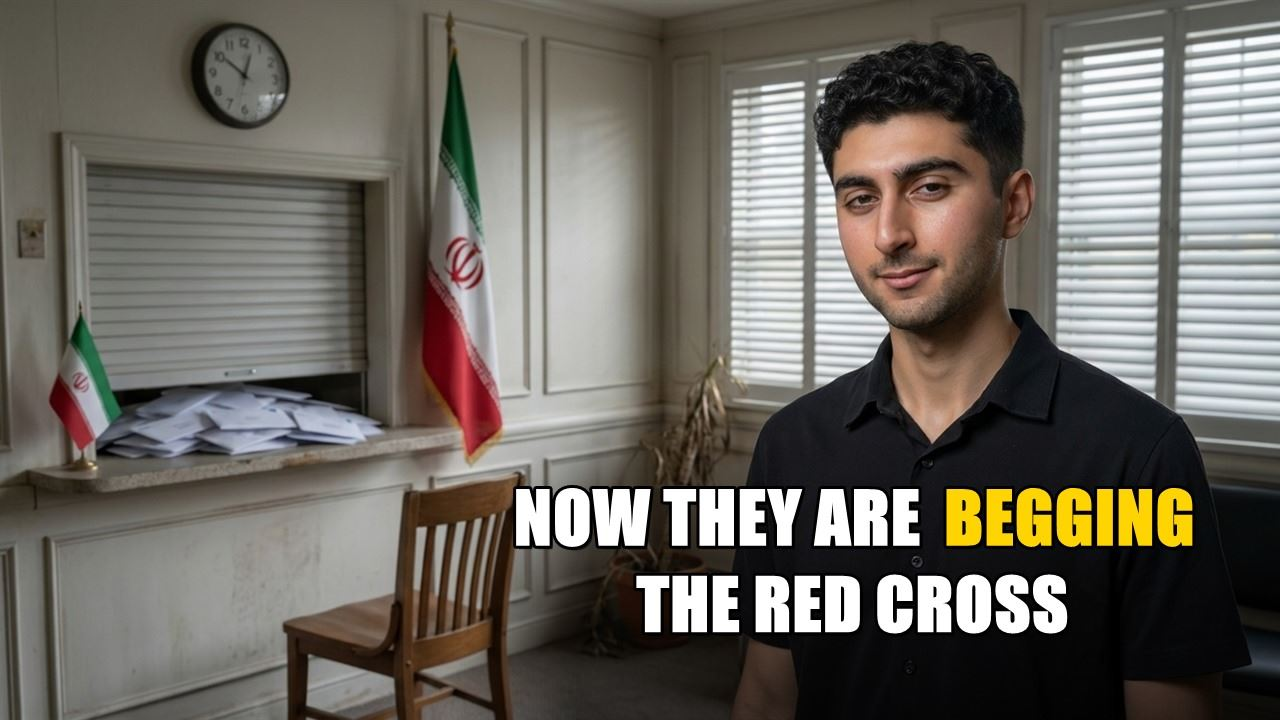
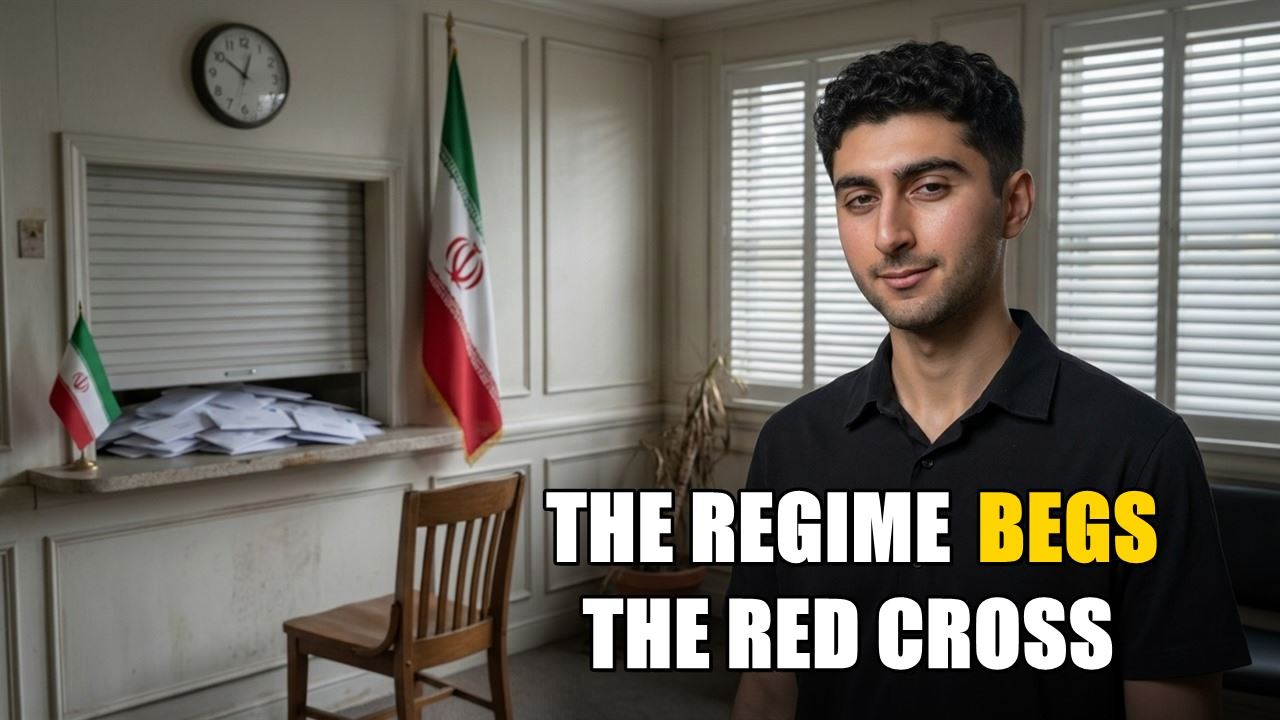
dashboards 2026-08-17T02:19:24Z

Changed region(s): [[0.375, 0.6722, 0.9375, 0.9472]]

diff --git a/ali-costreams.html b/ali-costreams.html
@@ -235,17 +235,17 @@ dialog img{display:block;max-width:94vw;max-height:88vh}
 <div class="wrap">
 <header>
   <h1>Ali co-streams - clip review</h1>
-  <div class="sub">19 streams - 161 clips</div>
+  <div class="sub">19 streams - 163 clips</div>
 </header>
 
 <!-- Self-checking freshness banner: the page compares its own build time against the clock. -->
-<div id="freshbar" class="fresh" data-built="2026-08-17T01:53:59Z">
+<div id="freshbar" class="fresh" data-built="2026-08-17T02:17:38Z">
   <div class="fresh-l">
-    <b id="freshtitle">This page was updated Mon Aug 17, 09:53</b>
+    <b id="freshtitle">This page was updated Mon Aug 17, 10:17</b>
     <span id="freshage"></span>
   </div>
-  <span class="newtoday" id="newtoday" data-new="9"
-        title="Clips whose covers finished in the last 24 hours">New today: 9</span>
+  <span class="newtoday" id="newtoday" data-new="11"
+        title="Clips whose covers finished in the last 24 hours">New today: 11</span>
   <button type="button" id="freshreload" class="fresh-btn" hidden>Get the newest version</button>
 </div>
 
@@ -292,9 +292,67 @@ dialog img{display:block;max-width:94vw;max-height:88vh}
   <p><b>A clip you have not answered is not the same as a clip you approved.</b> Anything you leave blank is reported as <b>not answered</b>, so nothing gets published on the assumption that your silence meant yes.</p>
   <p>Each stream below has its own coloured dot, and the feedback button under it carries the same dot, so you can always tell which stream a button belongs to.</p>
 </div>
-<div class="streamhdr"><h2>&#128308; Ali &amp; Armin - August 16</h2><span class="new">Newest</span><span class="cnt">1 clips</span></div>
+<div class="streamhdr"><h2>&#128308; Ali &amp; Armin - August 16</h2><span class="new">Newest</span><span class="cnt">3 clips</span></div>
+<section class="clip" data-seg="2026-08-16-ali::4" data-stream="Ali &amp; Armin - August 16">
+  <div class="chead"><span class="num">Seg 4</span><span class="ctitle">Iran&#39;s Stranded Tanker Fleet</span><a class="watch" href="https://share.descript.com/view/6ae9eZGrsmb" target="_blank" rel="noopener">Watch</a></div>
+  <div class="viddec">
+    <div class="dec">
+      <div class="decq">&#127909; Are you using this video?</div>
+      <div class="decbtns">
+        <button class="db viddb" type="button" data-d="yes" aria-pressed="false">Using this video</button>
+        <button class="db viddb" type="button" data-d="no" aria-pressed="false">Not using it</button>
+        <span class="saved" aria-live="polite"></span>
+      </div>
+    </div>
+    <div class="decbtns"><button class="allbtn" type="button">&#9989; Use everything on this clip</button></div>
+    <div class="vidwhy" hidden><textarea class="vidtext" rows="2" placeholder="Why are you not using this video? e.g. it starts in the middle of a sentence; it repeats the same point twice; the ending is cut off"></textarea></div>
+    <div class="means none" aria-live="polite">Not answered yet.</div>
+  </div>
+  <div class="cliptime">Added Aug 16 &middot; Covers made Aug 16 &middot; Ready Aug 16 &middot; <b>1:02</b> <span class="nomid">no mid-roll</span></div>
+  <div class="covers">
+    <div class="cov" data-var="C" data-head="THESE SHIPS WILL WARN US FIRST" data-title="THESE SHIPS WILL WARN US FIRST">
+      <button class="zoombtn" type="button" aria-label="Enlarge cover C"><img src="img/2026-08-16-ali-S4-C.jpg" alt="Cover C: THESE SHIPS WILL WARN US FIRST" loading="lazy"><span class="zoomhint">Tap to enlarge</span></button>
+      <div class="covdec">
+        <div class="decq">&#128444;&#65039; This cover C</div>
+        <div class="decbtns">
+          <button class="db covdb" type="button" data-d="yes" aria-pressed="false">Using it</button>
+          <button class="db covdb" type="button" data-d="no" aria-pressed="false">Not using it</button>
+        </div>
+      </div>
+      <div class="ttlline"><b>C</b> - THESE SHIPS WILL WARN US FIRST</div>
+      <div class="covdec">
+        <div class="decq">&#9999;&#65039; This title C</div>
+        <div class="decbtns">
+          <button class="db ttldb" type="button" data-d="yes" aria-pressed="false">Using it</button>
+          <button class="db ttldb" type="button" data-d="no" aria-pressed="false">Not using it</button>
+        </div>
+      </div>
+      <div class="ttlwhy" hidden><textarea class="ttltext" rows="2" placeholder="Why not this title? A few words is enough. e.g. it says secret and nobody said secret; it is about the last 20 seconds, not the video"></textarea></div>
+      <div class="covacts">
+        <button class="minibtn" type="button" data-copy="title">Copy title</button>
+        <a class="minibtn dlbtn" download="THESE SHIPS WILL WARN US FIRST - C.jpg" href="#" title="THESE SHIPS WILL WARN US FIRST - C.jpg">Save this cover</a>
+      </div>
+      <div class="covwhy" hidden><textarea class="whytext" rows="2" placeholder="Why not this cover? A few words is enough. e.g. that is not Armin, text covers his face, the hosts are too small"></textarea></div>
+    </div>
+  </div>
+  <div class="descbox">
+    <div class="lbl">Description</div>
+    <p class="desctext">There are now eighteen IRGC oil tankers sitting at anchor off Sri Lanka, four more than the last count, riding low and going nowhere. Ali explains why that line of ships is worth watching more closely than any statement out of a podium: if the tankers start moving back toward the Strait of Hormuz, it means somebody has given the Islamic Republic safety or a deal. If they stay where they are, it means the people who own them expect a war. Armin and Ali use the anchorage as a live indicator of what is coming in the next week or two.
+
+Live every day: https://www.youtube.com/@LibertyPoliticsChannel/streams
+
+Join the Liberty Politics Discussion Group: https://www.skool.com/liberty-politics
+
+Talk to Ali in his group calls: https://www.skool.com/libertypolitics/about?ref=f076eb0a543d44c9a50eddfb14fdd1ae</p>
+    <button class="copyttl" type="button" data-copy="desc">Copy description</button>
+  </div>
+  <div class="fbnote">
+    <div class="lbl">Anything else about this video? (optional)</div>
+    <textarea placeholder="About the VIDEO, not the covers. Even if you are using it - does it start badly? End badly? Anything confusing or repeated?"></textarea>
+  </div>
+</section>
 <section class="clip" data-seg="2026-08-16-ali::13" data-stream="Ali &amp; Armin - August 16">
-  <div class="chead"><span class="num">Seg 13</span><span class="ctitle">Qatar Detained Iran&#39;s Pilots and Kept It Secret</span><a class="watch" href="https://share.descript.com/view/u2k630LroFa" target="_blank" rel="noopener">Watch</a></div>
+  <div class="chead"><span class="num">Seg 13</span><span class="ctitle">Qatar Held the Islamic Republic&#39;s Pilots Since March and Nobody Knew</span><a class="watch" href="https://share.descript.com/view/u2k630LroFa" target="_blank" rel="noopener">Watch</a></div>
   <div class="viddec">
     <div class="dec">
       <div class="decq">&#127909; Are you using this video?</div>
@@ -310,8 +368,8 @@ dialog img{display:block;max-width:94vw;max-height:88vh}
   </div>
   <div class="cliptime">Added Aug 16 &middot; Covers made Aug 16 &middot; Ready Aug 16 &middot; <b>1:20</b> <span class="nomid">no mid-roll</span></div>
   <div class="covers">
-    <div class="cov" data-var="C" data-head="NOW THEY ARE BEGGING THE RED CROSS" data-title="NOW THEY ARE BEGGING THE RED CROSS">
-      <button class="zoombtn" type="button" aria-label="Enlarge cover C"><img src="img/2026-08-16-ali-S13-C.jpg" alt="Cover C: NOW THEY ARE BEGGING THE RED CROSS" loading="lazy"><span class="zoomhint">Tap to enlarge</span></button>
+    <div class="cov" data-var="C" data-head="THE REGIME BEGS THE RED CROSS" data-title="THE REGIME BEGS THE RED CROSS">
+      <button class="zoombtn" type="button" aria-label="Enlarge cover C"><img src="img/2026-08-16-ali-S13-C.jpg" alt="Cover C: THE REGIME BEGS THE RED CROSS" loading="lazy"><span class="zoomhint">Tap to enlarge</span></button>
       <div class="covdec">
         <div class="decq">&#128444;&#65039; This cover C</div>
         <div class="decbtns">
@@ -319,7 +377,7 @@ dialog img{display:block;max-width:94vw;max-height:88vh}
           <button class="db covdb" type="button" data-d="no" aria-pressed="false">Not using it</button>
         </div>
       </div>
-      <div class="ttlline"><b>C</b> - NOW THEY ARE BEGGING THE RED CROSS</div>
+      <div class="ttlline"><b>C</b> - THE REGIME BEGS THE RED CROSS</div>
       <div class="covdec">
         <div class="decq">&#9999;&#65039; This title C</div>
         <div class="decbtns">
@@ -330,12 +388,70 @@ dialog img{display:block;max-width:94vw;max-height:88vh}
       <div class="ttlwhy" hidden><textarea class="ttltext" rows="2" placeholder="Why not this title? A few words is enough. e.g. it says secret and nobody said secret; it is about the last 20 seconds, not the video"></textarea></div>
       <div class="covacts">
         <button class="minibtn" type="button" data-copy="title">Copy title</button>
-        <a class="minibtn dlbtn" download="NOW THEY ARE BEGGING THE RED CROSS - C.jpg" href="#" title="NOW THEY ARE BEGGING THE RED CROSS - C.jpg">Save this cover</a>
+        <a class="minibtn dlbtn" download="THE REGIME BEGS THE RED CROSS - C.jpg" href="#" title="THE REGIME BEGS THE RED CROSS - C.jpg">Save this cover</a>
       </div>
       <div class="covwhy" hidden><textarea class="whytext" rows="2" placeholder="Why not this cover? A few words is enough. e.g. that is not Armin, text covers his face, the hosts are too small"></textarea></div>
     </div>
-    <div class="cov" data-var="B" data-head="TEHRAN DIDN&#39;T KNOW THEY WERE ALIVE" data-title="TEHRAN DIDN&#39;T KNOW THEY WERE ALIVE">
-      <button class="zoombtn" type="button" aria-label="Enlarge cover B"><img src="img/2026-08-16-ali-S13-B.jpg" alt="Cover B: TEHRAN DIDN&#39;T KNOW THEY WERE ALIVE" loading="lazy"><span class="zoomhint">Tap to enlarge</span></button>
+  </div>
+  <div class="descbox">
+    <div class="lbl">Description</div>
+    <p class="desctext">During the fighting in March, Qatar shot down several IRGC pilots, captured them badly injured, and treated them. Then it held them for months and told nobody. The Islamic Republic did not know its own men were alive. When it finally found out and asked for them back, Qatar said no, and the answer from the Islamic Republic was to complain to the Red Cross about a country holding men it had not known were being held. Armin and Ali go through what that says about the regime&#39;s intelligence, and about how little its neighbours now fear it.
+
+Live every day: https://www.youtube.com/@LibertyPoliticsChannel/streams
+
+Join the Liberty Politics Discussion Group: https://www.skool.com/liberty-politics
+
+Talk to Ali in his group calls: https://www.skool.com/libertypolitics/about?ref=f076eb0a543d44c9a50eddfb14fdd1ae</p>
+    <button class="copyttl" type="button" data-copy="desc">Copy description</button>
+  </div>
+  <div class="fbnote">
+    <div class="lbl">Anything else about this video? (optional)</div>
+    <textarea placeholder="About the VIDEO, not the covers. Even if you are using it - does it start badly? End badly? Anything confusing or repeated?"></textarea>
+  </div>
+</section>
+<section class="clip" data-seg="2026-08-16-ali::18" data-stream="Ali &amp; Armin - August 16">
+  <div class="chead"><span class="num">Seg 18</span><span class="ctitle">Mossad&#39;s Psychological Warfare on Nuclear Scientists</span><a class="watch" href="https://share.descript.com/view/IKplK8q35Da" target="_blank" rel="noopener">Watch</a></div>
+  <div class="viddec">
+    <div class="dec">
+      <div class="decq">&#127909; Are you using this video?</div>
+      <div class="decbtns">
+        <button class="db viddb" type="button" data-d="yes" aria-pressed="false">Using this video</button>
+        <button class="db viddb" type="button" data-d="no" aria-pressed="false">Not using it</button>
+        <span class="saved" aria-live="polite"></span>
+      </div>
+    </div>
+    <div class="decbtns"><button class="allbtn" type="button">&#9989; Use everything on this clip</button></div>
+    <div class="vidwhy" hidden><textarea class="vidtext" rows="2" placeholder="Why are you not using this video? e.g. it starts in the middle of a sentence; it repeats the same point twice; the ending is cut off"></textarea></div>
+    <div class="means none" aria-live="polite">Not answered yet.</div>
+  </div>
+  <div class="cliptime">Added Aug 16 &middot; Covers made Aug 16 &middot; Ready Aug 16 &middot; <b>0:55</b> <span class="nomid">no mid-roll</span></div>
+  <div class="covers">
+    <div class="cov" data-var="A" data-head="FLOWERS THAT SAID YOU ARE NEXT" data-title="FLOWERS THAT SAID YOU ARE NEXT">
+      <button class="zoombtn" type="button" aria-label="Enlarge cover A"><img src="img/2026-08-16-ali-S18-A.jpg" alt="Cover A: FLOWERS THAT SAID YOU ARE NEXT" loading="lazy"><span class="zoomhint">Tap to enlarge</span></button>
+      <div class="covdec">
+        <div class="decq">&#128444;&#65039; This cover A</div>
+        <div class="decbtns">
+          <button class="db covdb" type="button" data-d="yes" aria-pressed="false">Using it</button>
+          <button class="db covdb" type="button" data-d="no" aria-pressed="false">Not using it</button>
+        </div>
+      </div>
+      <div class="ttlline"><b>A</b> - FLOWERS THAT SAID YOU ARE NEXT</div>
+      <div class="covdec">
+        <div class="decq">&#9999;&#65039; This title A</div>
+        <div class="decbtns">
+          <button class="db ttldb" type="button" data-d="yes" aria-pressed="false">Using it</button>
+          <button class="db ttldb" type="button" data-d="no" aria-pressed="false">Not using it</button>
+        </div>
+      </div>
+      <div class="ttlwhy" hidden><textarea class="ttltext" rows="2" placeholder="Why not this title? A few words is enough. e.g. it says secret and nobody said secret; it is about the last 20 seconds, not the video"></textarea></div>
+      <div class="covacts">
+        <button class="minibtn" type="button" data-copy="title">Copy title</button>
+        <a class="minibtn dlbtn" download="FLOWERS THAT SAID YOU ARE NEXT - A.jpg" href="#" title="FLOWERS THAT SAID YOU ARE NEXT - A.jpg">Save this cover</a>
+      </div>
+      <div class="covwhy" hidden><textarea class="whytext" rows="2" placeholder="Why not this cover? A few words is enough. e.g. that is not Armin, text covers his face, the hosts are too small"></textarea></div>
+    </div>
+    <div class="cov" data-var="B" data-head="A WREATH FOR A LIVING MAN" data-title="A WREATH FOR A LIVING MAN">
+      <button class="zoombtn" type="button" aria-label="Enlarge cover B"><img src="img/2026-08-16-ali-S18-B.jpg" alt="Cover B: A WREATH FOR A LIVING MAN" loading="lazy"><span class="zoomhint">Tap to enlarge</span></button>
       <div class="covdec">
         <div class="decq">&#128444;&#65039; This cover B</div>
         <div class="decbtns">
@@ -343,7 +459,7 @@ dialog img{display:block;max-width:94vw;max-height:88vh}
           <button class="db covdb" type="button" data-d="no" aria-pressed="false">Not using it</button>
         </div>
       </div>
-      <div class="ttlline"><b>B</b> - TEHRAN DIDN&#39;T KNOW THEY WERE ALIVE</div>
+      <div class="ttlline"><b>B</b> - A WREATH FOR A LIVING MAN</div>
       <div class="covdec">
         <div class="decq">&#9999;&#65039; This title B</div>
         <div class="decbtns">
@@ -354,16 +470,38 @@ dialog img{display:block;max-width:94vw;max-height:88vh}
       <div class="ttlwhy" hidden><textarea class="ttltext" rows="2" placeholder="Why not this title? A few words is enough. e.g. it says secret and nobody said secret; it is about the last 20 seconds, not the video"></textarea></div>
       <div class="covacts">
         <button class="minibtn" type="button" data-copy="title">Copy title</button>
-        <a class="minibtn dlbtn" download="TEHRAN DIDN&#39;T KNOW THEY WERE ALIVE - B.jpg" href="#" title="TEHRAN DIDN&#39;T KNOW THEY WERE ALIVE - B.jpg">Save this cover</a>
+        <a class="minibtn dlbtn" download="A WREATH FOR A LIVING MAN - B.jpg" href="#" title="A WREATH FOR A LIVING MAN - B.jpg">Save this cover</a>
+      </div>
+      <div class="covwhy" hidden><textarea class="whytext" rows="2" placeholder="Why not this cover? A few words is enough. e.g. that is not Armin, text covers his face, the hosts are too small"></textarea></div>
+    </div>
+    <div class="cov" data-var="C" data-head="QUESTIONED HIM INSIDE IRAN" data-title="QUESTIONED HIM INSIDE IRAN">
+      <button class="zoombtn" type="button" aria-label="Enlarge cover C"><img src="img/2026-08-16-ali-S18-C.jpg" alt="Cover C: QUESTIONED HIM INSIDE IRAN" loading="lazy"><span class="zoomhint">Tap to enlarge</span></button>
+      <div class="covdec">
+        <div class="decq">&#128444;&#65039; This cover C</div>
+        <div class="decbtns">
+          <button class="db covdb" type="button" data-d="yes" aria-pressed="false">Using it</button>
+          <button class="db covdb" type="button" data-d="no" aria-pressed="false">Not using it</button>
+        </div>
+      </div>
+      <div class="ttlline"><b>C</b> - QUESTIONED HIM INSIDE IRAN</div>
+      <div class="covdec">
+        <div class="decq">&#9999;&#65039; This title C</div>
+        <div class="decbtns">
+          <button class="db ttldb" type="button" data-d="yes" aria-pressed="false">Using it</button>
+          <button class="db ttldb" type="button" data-d="no" aria-pressed="false">Not using it</button>
+        </div>
+      </div>
+      <div class="ttlwhy" hidden><textarea class="ttltext" rows="2" placeholder="Why not this title? A few words is enough. e.g. it says secret and nobody said secret; it is about the last 20 seconds, not the video"></textarea></div>
+      <div class="covacts">
+        <button class="minibtn" type="button" data-copy="title">Copy title</button>
+        <a class="minibtn dlbtn" download="QUESTIONED HIM INSIDE IRAN - C.jpg" href="#" title="QUESTIONED HIM INSIDE IRAN - C.jpg">Save this cover</a>
       </div>
       <div class="covwhy" hidden><textarea class="whytext" rows="2" placeholder="Why not this cover? A few words is enough. e.g. that is not Armin, text covers his face, the hosts are too small"></textarea></div>
     </div>
   </div>
   <div class="descbox">
     <div class="lbl">Description</div>
-    <p class="desctext">Qatar shot down several IRGC pilots during the March war, captured them injured, treated them, and then quietly held them for months without telling Tehran a thing. The Islamic Republic only found out recently, demanded its pilots back, and was told no. Its answer was to complain to the Red Cross about a country holding men it did not know were being held. Ali and Armin walk through what that says about the regime&#39;s intelligence, its standing in the Gulf, and how little its neighbours now fear it.
-
-Chapters are not used on this clip because it runs under eight minutes.
+    <p class="desctext">Yossi Cohen said in a recent interview that Mossad would deliver flowers to the homes of nuclear scientists working for the Islamic Republic, with a note reading you are next. The point was not the flowers. It was that they knew the address. Armin and Ali also go through the operation neither of them thinks gets talked about enough: Mossad went in, detained a man inside the country, recorded his interrogation there, released him there, and walked out, as though they owned the place.
 
 Live every day: https://www.youtube.com/@LibertyPoliticsChannel/streams
 
@@ -13859,7 +13997,7 @@ Talk to Ali in his group calls: https://www.skool.com/libertypolitics/about?ref=
 </section>
 </div>
 <div class="bar">
-  <span class="count" id="count">0 of 161 done</span>
+  <span class="count" id="count">0 of 163 done</span>
   <button type="button" id="submit">Submit all feedback</button>
 </div>
 <div class="toast" id="toast"></div>

diff --git a/armin-shows.html b/armin-shows.html
@@ -239,13 +239,13 @@ dialog img{display:block;max-width:94vw;max-height:88vh}
 </header>
 
 <!-- Self-checking freshness banner: the page compares its own build time against the clock. -->
-<div id="freshbar" class="fresh" data-built="2026-08-17T02:03:39Z">
+<div id="freshbar" class="fresh" data-built="2026-08-17T02:16:54Z">
   <div class="fresh-l">
-    <b id="freshtitle">This page was updated Mon Aug 17, 10:03</b>
+    <b id="freshtitle">This page was updated Mon Aug 17, 10:16</b>
     <span id="freshage"></span>
   </div>
-  <span class="newtoday" id="newtoday" data-new="10"
-        title="Clips whose covers finished in the last 24 hours">New today: 10</span>
+  <span class="newtoday" id="newtoday" data-new="8"
+        title="Clips whose covers finished in the last 24 hours">New today: 8</span>
   <button type="button" id="freshreload" class="fresh-btn" hidden>Get the newest version</button>
 </div>
 

diff --git a/guy-shows.html b/guy-shows.html
@@ -239,9 +239,9 @@ dialog img{display:block;max-width:94vw;max-height:88vh}
 </header>
 
 <!-- Self-checking freshness banner: the page compares its own build time against the clock. -->
-<div id="freshbar" class="fresh" data-built="2026-08-17T01:54:24Z">
+<div id="freshbar" class="fresh" data-built="2026-08-17T02:18:02Z">
   <div class="fresh-l">
-    <b id="freshtitle">This page was updated Mon Aug 17, 09:54</b>
+    <b id="freshtitle">This page was updated Mon Aug 17, 10:18</b>
     <span id="freshage"></span>
   </div>
   <span class="newtoday none" id="newtoday" data-new="0"

diff --git a/guy-picks.html b/guy-picks.html
@@ -1017,7 +1017,7 @@
     <textarea id="report" readonly></textarea>
     <p class="note">Copied. Paste it straight into Telegram.</p>
   </div>
-  <p class="built">50 topics across 6 streams. Updated 2026-08-17T01:54:33Z.</p>
+  <p class="built">50 topics across 6 streams. Updated 2026-08-17T02:18:11Z.</p>
 </div>
 
 <div class="bar">
